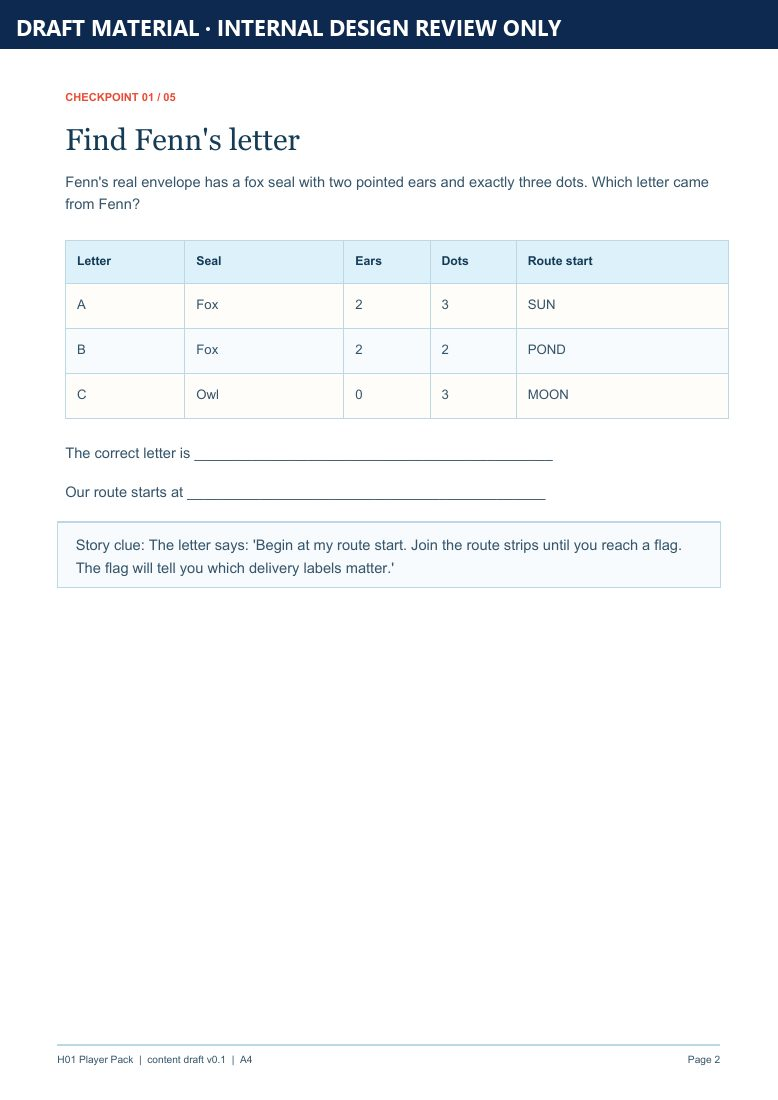
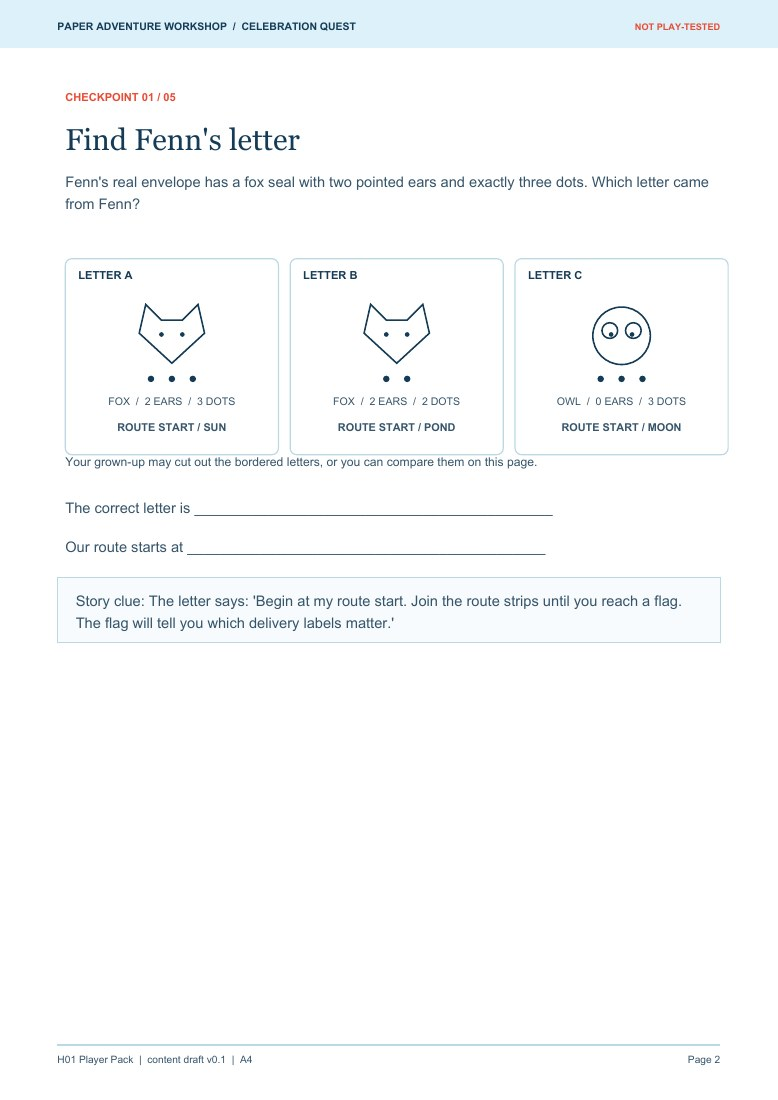
Refresh private design previews from current Celebration PDF pages

Changed region(s): [[0.0617, 0.2164, 0.9563, 0.5873], [0.0, 0.0, 1.0, 0.0618], [0.0925, 0.3091, 0.1234, 0.34]]

diff --git a/design-handoff/ASSET_PROVENANCE.md b/design-handoff/ASSET_PROVENANCE.md
@@ -14,8 +14,8 @@
 | `../public/assets/autumn-classroom-v0.1.jpg` | 2026-10-08 使用 Codex 内置 imagegen 以友好万圣节变体为编辑目标生成，项目本地保留高分辨率 PNG；提示与边界见 `THEME_VISUAL_VARIANTS.md` | C05 非特定节庆 Autumn 视觉候选；网页课堂故事卡展示压缩 JPEG，对应资料包已有未验收的内部 PDF 草稿。 |
 | `../public/assets/celebration-classroom-v0.1.jpg` | 2026-10-08 使用 Codex 内置 imagegen 以原 `celebration.png` 为编辑目标生成；项目内保留优化 PNG，原始高分辨率图在 CodexHome 生成目录；来源见 `THEME_VISUAL_VARIANTS.md` | C01 探险俱乐部概念图，用于网页课堂故事卡和内部 PDF 封面，替代不相符的生日礼物封面；仍需正式素材及儿童感受审查。 |
 | `../public/assets/celebration-home-v0.1.jpg` | 2026-10-08 使用 Codex 内置 imagegen 以原 `celebration.png` 为编辑目标生成；项目内保留优化 PNG，原始高分辨率图在 CodexHome 生成目录；来源见 `THEME_VISUAL_VARIANTS.md` | H01 狐狸送信概念图，用于网页 Home 故事卡和内部 PDF 封面；仍需正式素材及儿童感受审查。 |
-| `material-previews/celebration-home-draft.jpg` | 从未公开的 `output/pdf/celebration-H01-player-v0.1-A4.pdf` 第 2 页渲染；详情见 `../content/celebration-pdf-manifest.v0.1.json` | 仅私有设计审阅，已加 DRAFT 标记；不得当作可下载成品在站点公开。 |
-| `material-previews/celebration-classroom-draft.jpg` | 从未公开的 `output/pdf/celebration-C01-player-v0.1-A4.pdf` 第 2 页渲染；同上 | 同上。 |
+| `material-previews/celebration-home-draft.jpg` | 从当前未公开的 `output/pdf/celebration-H01-player-v0.1-A4.pdf` 第 2 页重新渲染；详情见 `../content/celebration-pdf-manifest.v0.1.json` | 仅私有设计审阅；页面本身印有 NOT PLAY-TESTED，不得当作可下载成品在站点公开。 |
+| `material-previews/celebration-classroom-draft.jpg` | 从当前未公开的 `output/pdf/celebration-C01-player-v0.1-A4.pdf` 第 2 页重新渲染；同上 | 同上。 |
 | `../qa-*.png` | 前期 Codex 右侧浏览器原型 QA 截图 | 设计比较证据，不是用户评价或商品材料。 |
 | Nunito Sans / Bree Serif / Phosphor | 安装包的 `LICENSE` 与 `package.json` 已核对：两款字体为 OFL-1.1，图标包为 MIT；原文复制到 `../public/licenses/` | 构建随字体和图标分发许可证声明；正式发布仍需复核使用方式、字体保留名称和全站第三方依赖清单。 |
 
